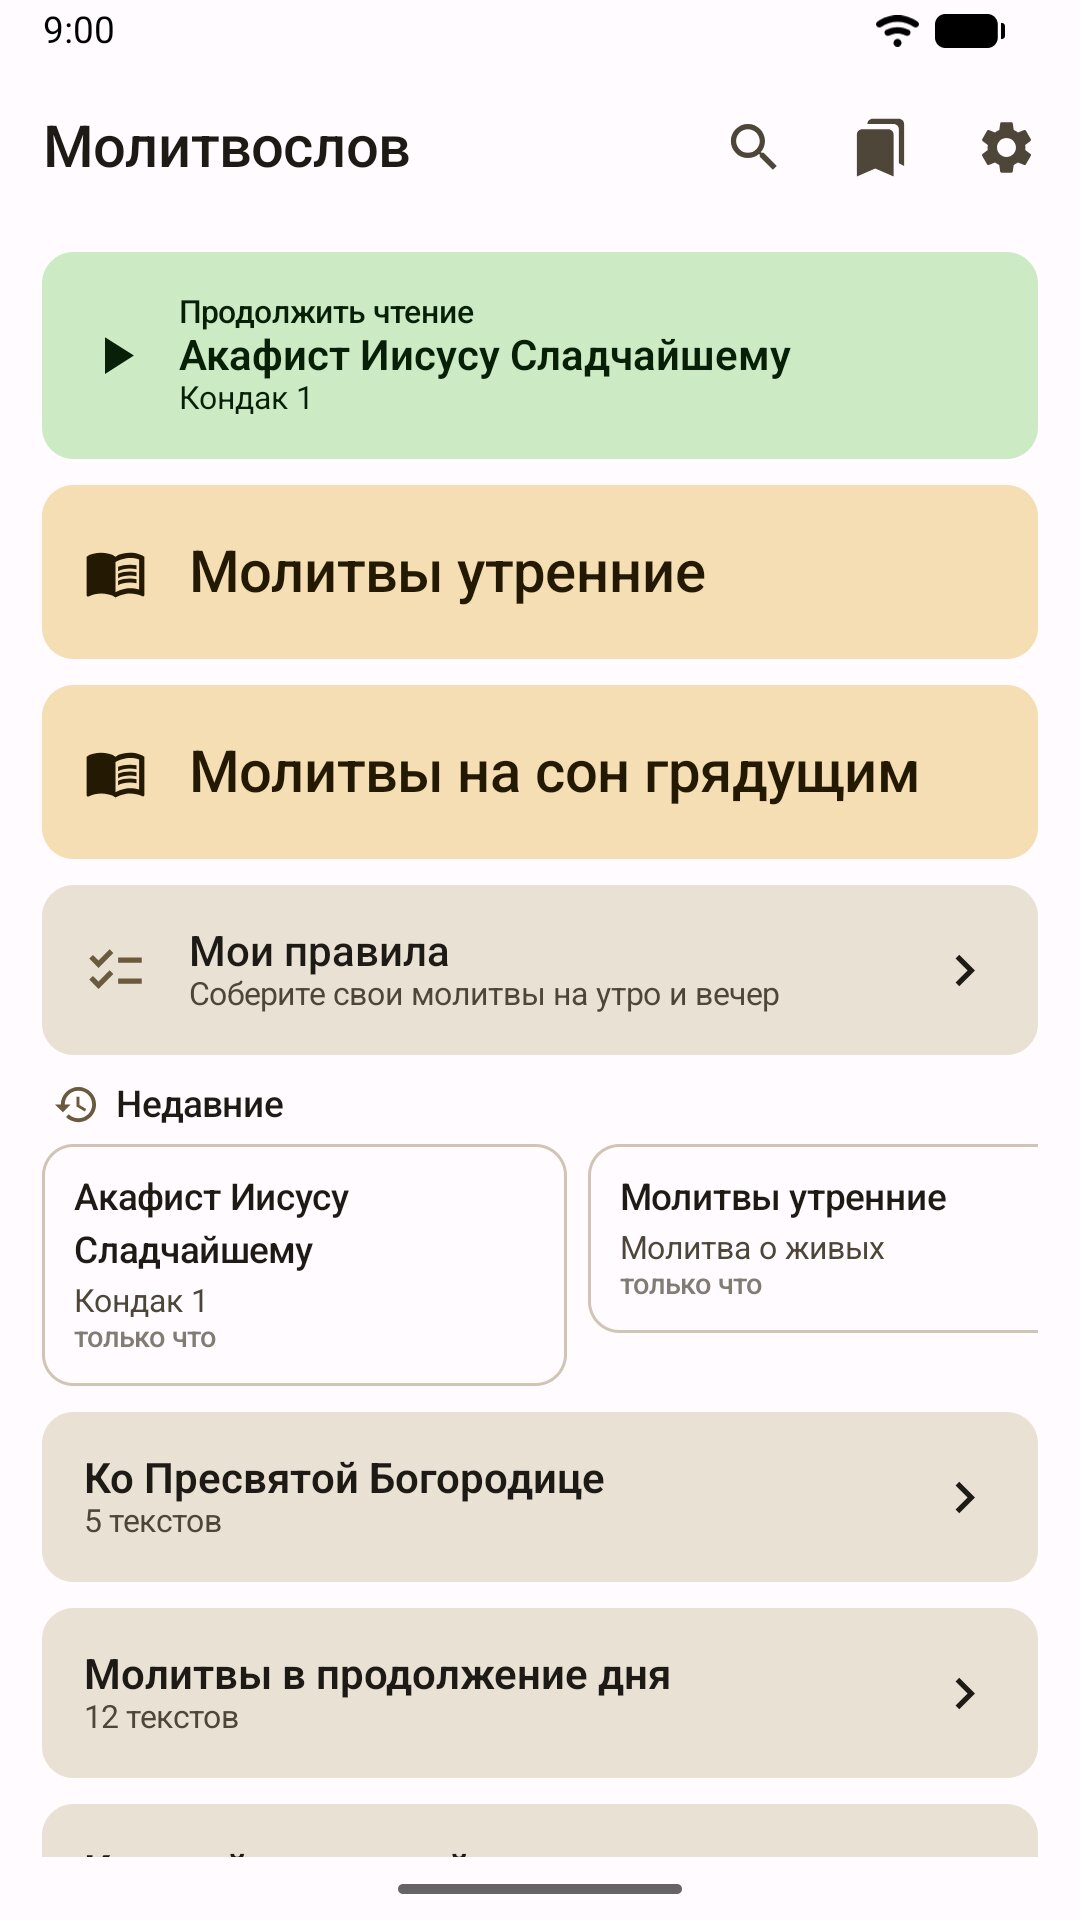
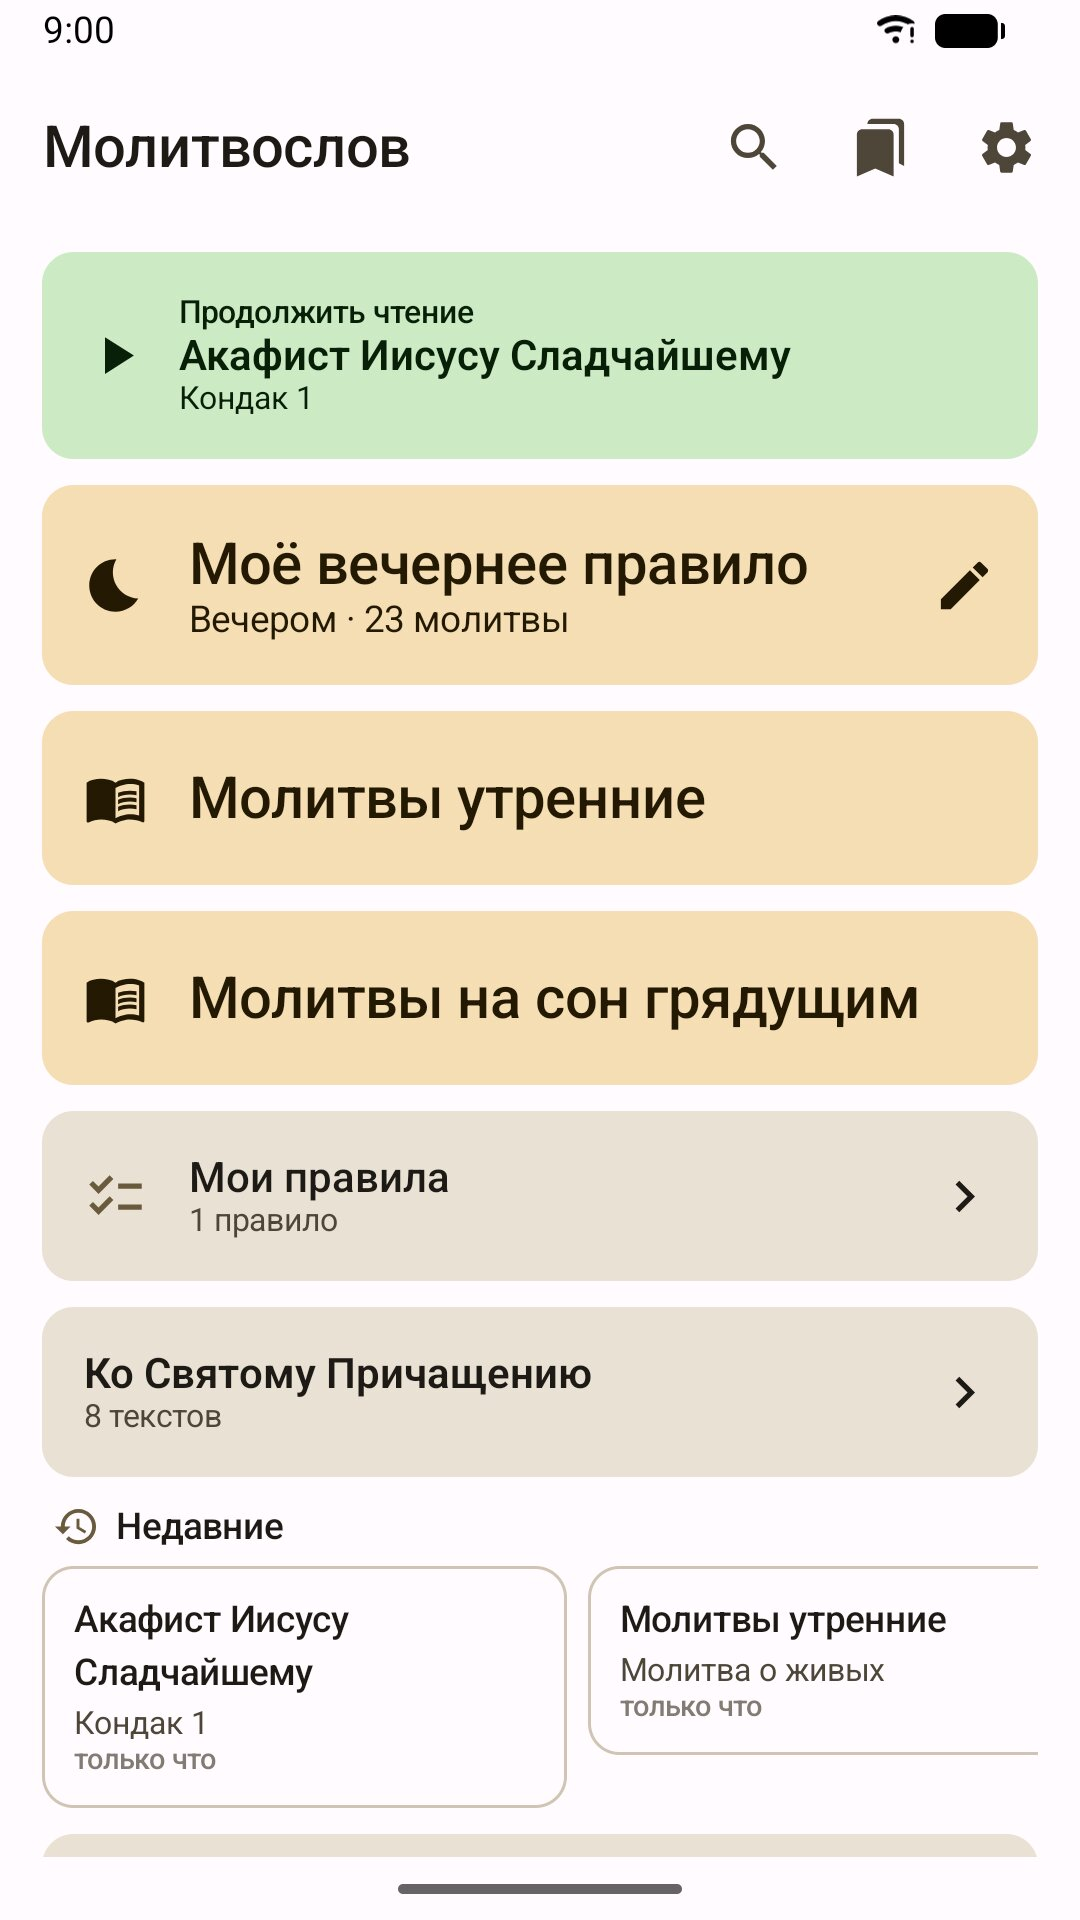
Version 1.0.6: default morning and evening prayers can be hidden from Home, Communion moved under the rules

diff --git a/index.html b/index.html
@@ -226,7 +226,7 @@
         <svg viewBox="0 0 24 24" fill="currentColor"><path d="M5 20h14v-2H5v2zm7-18L5.33 8.67l1.41 1.41L11 5.83V16h2V5.83l4.26 4.25 1.41-1.41L12 2z" transform="rotate(180 12 12)"/></svg>
         Скачать APK
     </a>
-    <p class="version-info">Версия 1.0.5 &middot; Android 8.0+</p>
+    <p class="version-info">Версия 1.0.6 &middot; Android 8.0+</p>
 </section>
 
 <section class="features">
